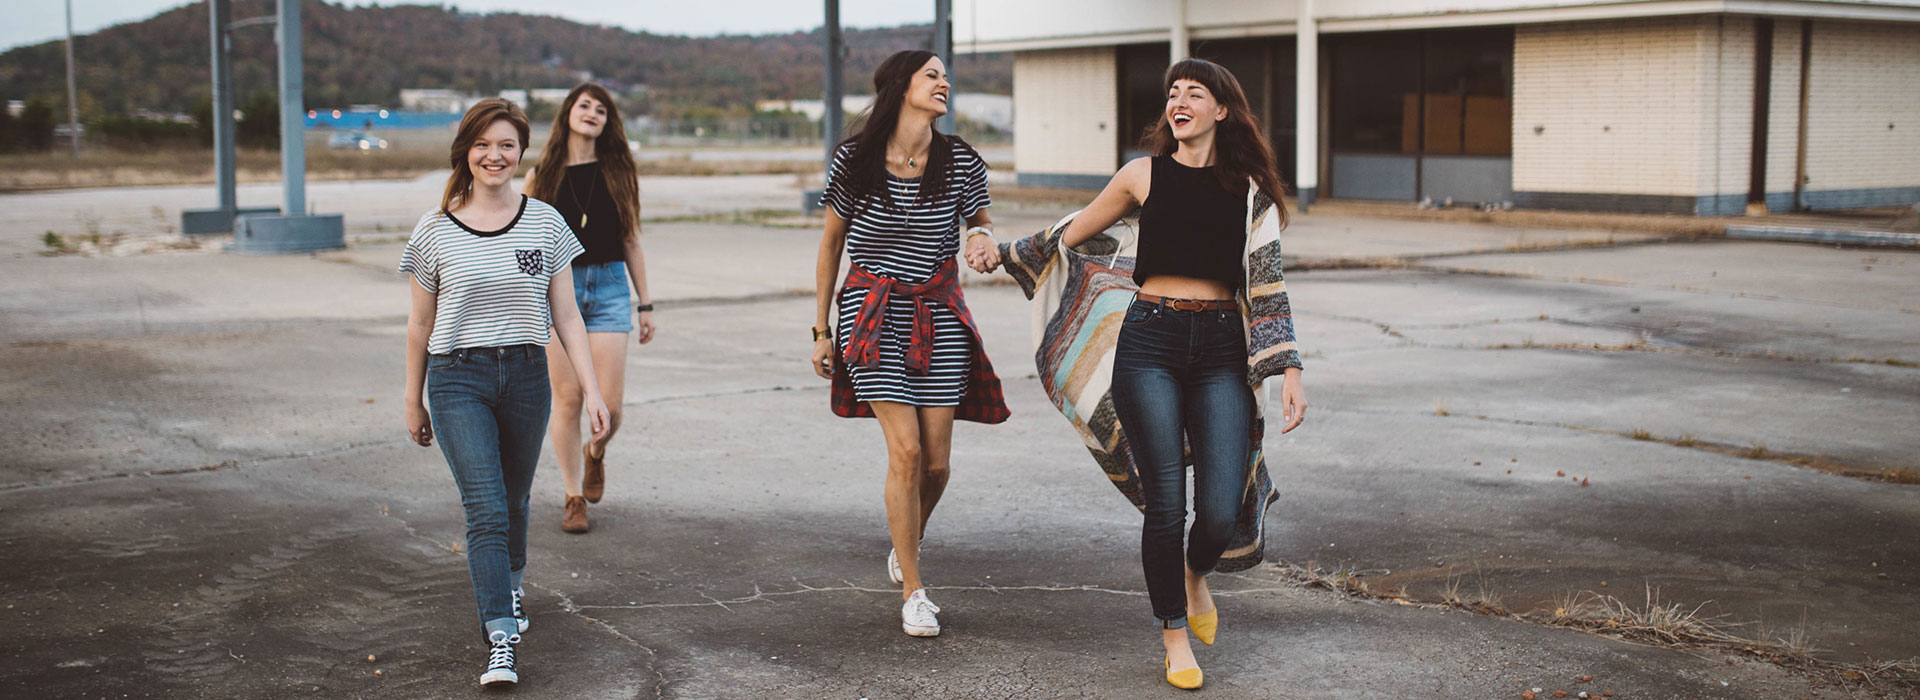
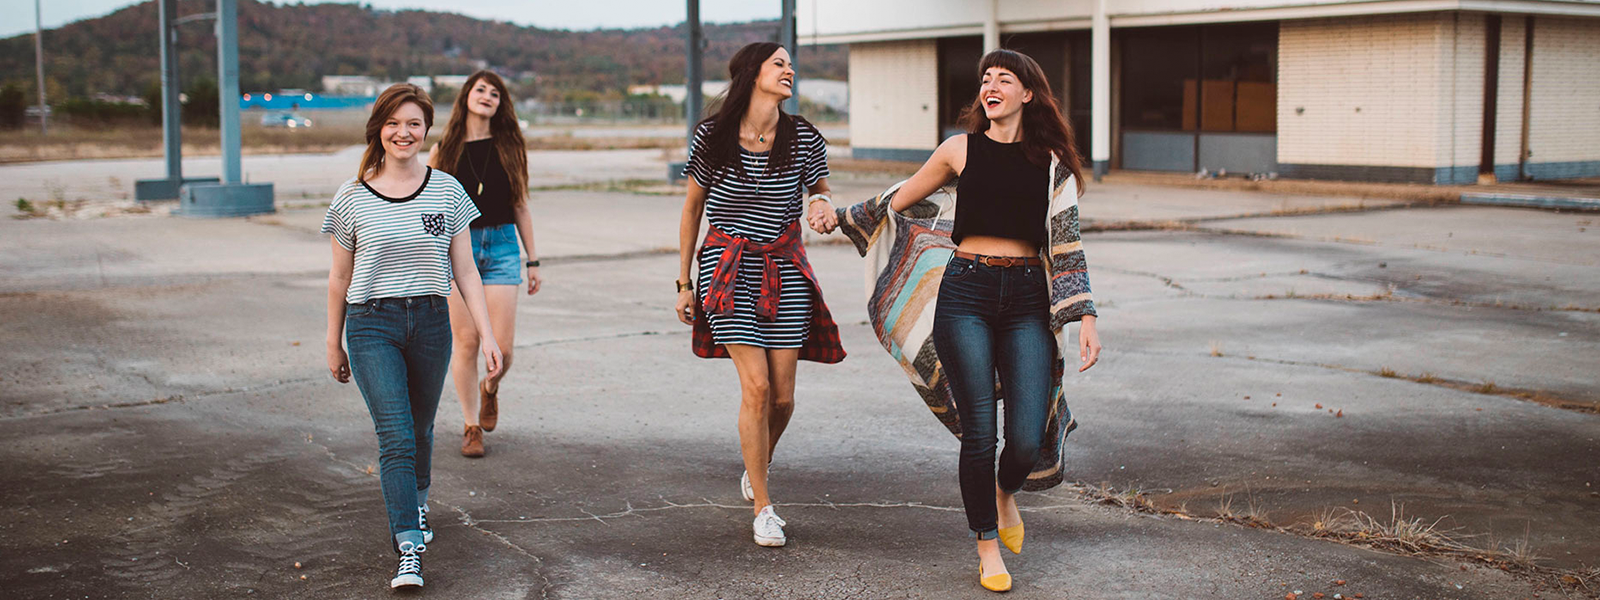
HW5_Rev.1

diff --git a/html-css/module-05/css/styles.css b/html-css/module-05/css/styles.css
@@ -89,7 +89,7 @@ html {
 
 .slider {
   position: relative;
-  height: 607px;
+  height: 600px;
   width: 1600px;
   margin: 0 auto 100px;
 }
